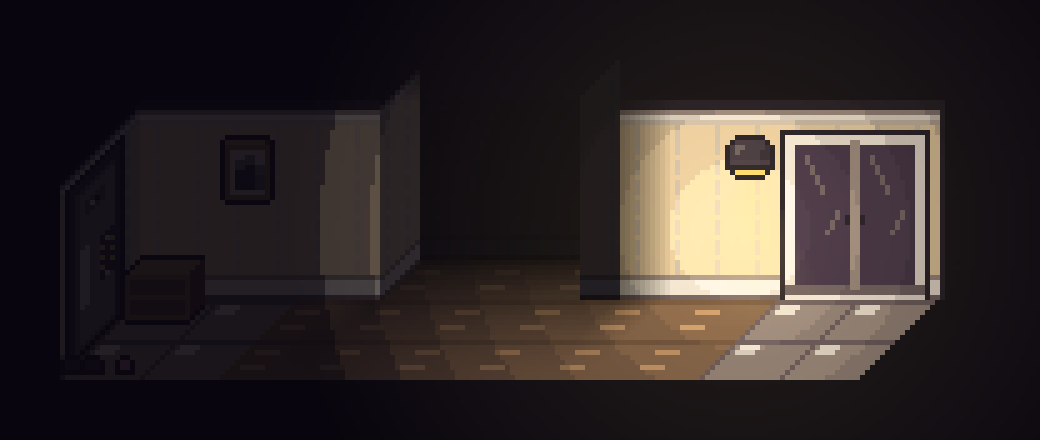
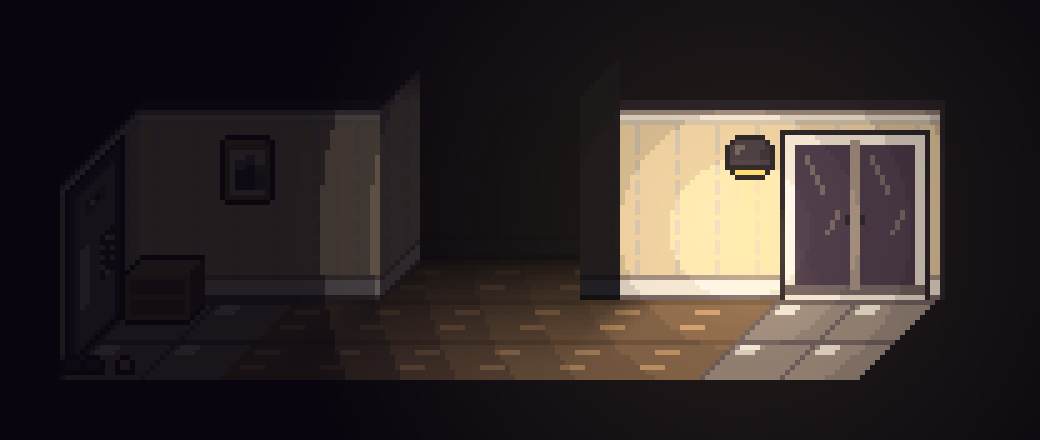
Corridor: restore original front-facing wall (remove edge darkening feather)
Claude-Session: https://claude.ai/code/session_01FPZSaKiVNU2zED737yZX4w

Changed region(s): [[0.5846, 0.2364, 0.6462, 0.6795]]

diff --git a/tools/render_room.py b/tools/render_room.py
@@ -110,16 +110,7 @@ def render_room(path, scale=1):
                 r_, g_, b_, a_ = get(nm, int(d), ty); fk_ = .04 if extra.get('recess_side') == 'hidden' else (.38 if extra.get('recess_side') == 'dark' else (.25 if extra_dark else .72))
                 px[X, Y] = (int(r_ * fk_), int(g_ * fk_), int(b_ * fk_ * 1.1), a_)
                 if Y < top_line: px[X, Y] = fade_to_bg(px[X, Y], (top_line - Y) / (SS * RD + 1))
-        if rc:                                                              # 검은 안쪽 면과 밝은 벽이 만나는 오른쪽 가장자리를 부드럽게
-            xe = int(X0 + SK * D + (rb + 1) * T)
-            for dx in range(10):
-                kk = .45 + .55 * (dx / 10) ** 1.2
-                for Y in range(int(by - wallh), int(by)):
-                    X = xe + dx
-                    if 0 <= X < CW:
-                        r_, g_, b_, a_ = px[X, Y]
-                        if a_: px[X, Y] = (int(r_ * kk), int(g_ * kk), int(b_ * kk), a_)
-        strip_px = []
+    strip_px = []
     if rc:                                                              # ㄴ 자 벽: 바깥 벽의 왼쪽 끝면(두께)을 안쪽 검은 면 오른쪽에 보이게 한다
             xm = int(X0 + SK * D + (rb + 1) * T); base_y = int(Y0 - SS * D); top_y = int(by - wallh)
             for off in range(int(SK * RD)):
